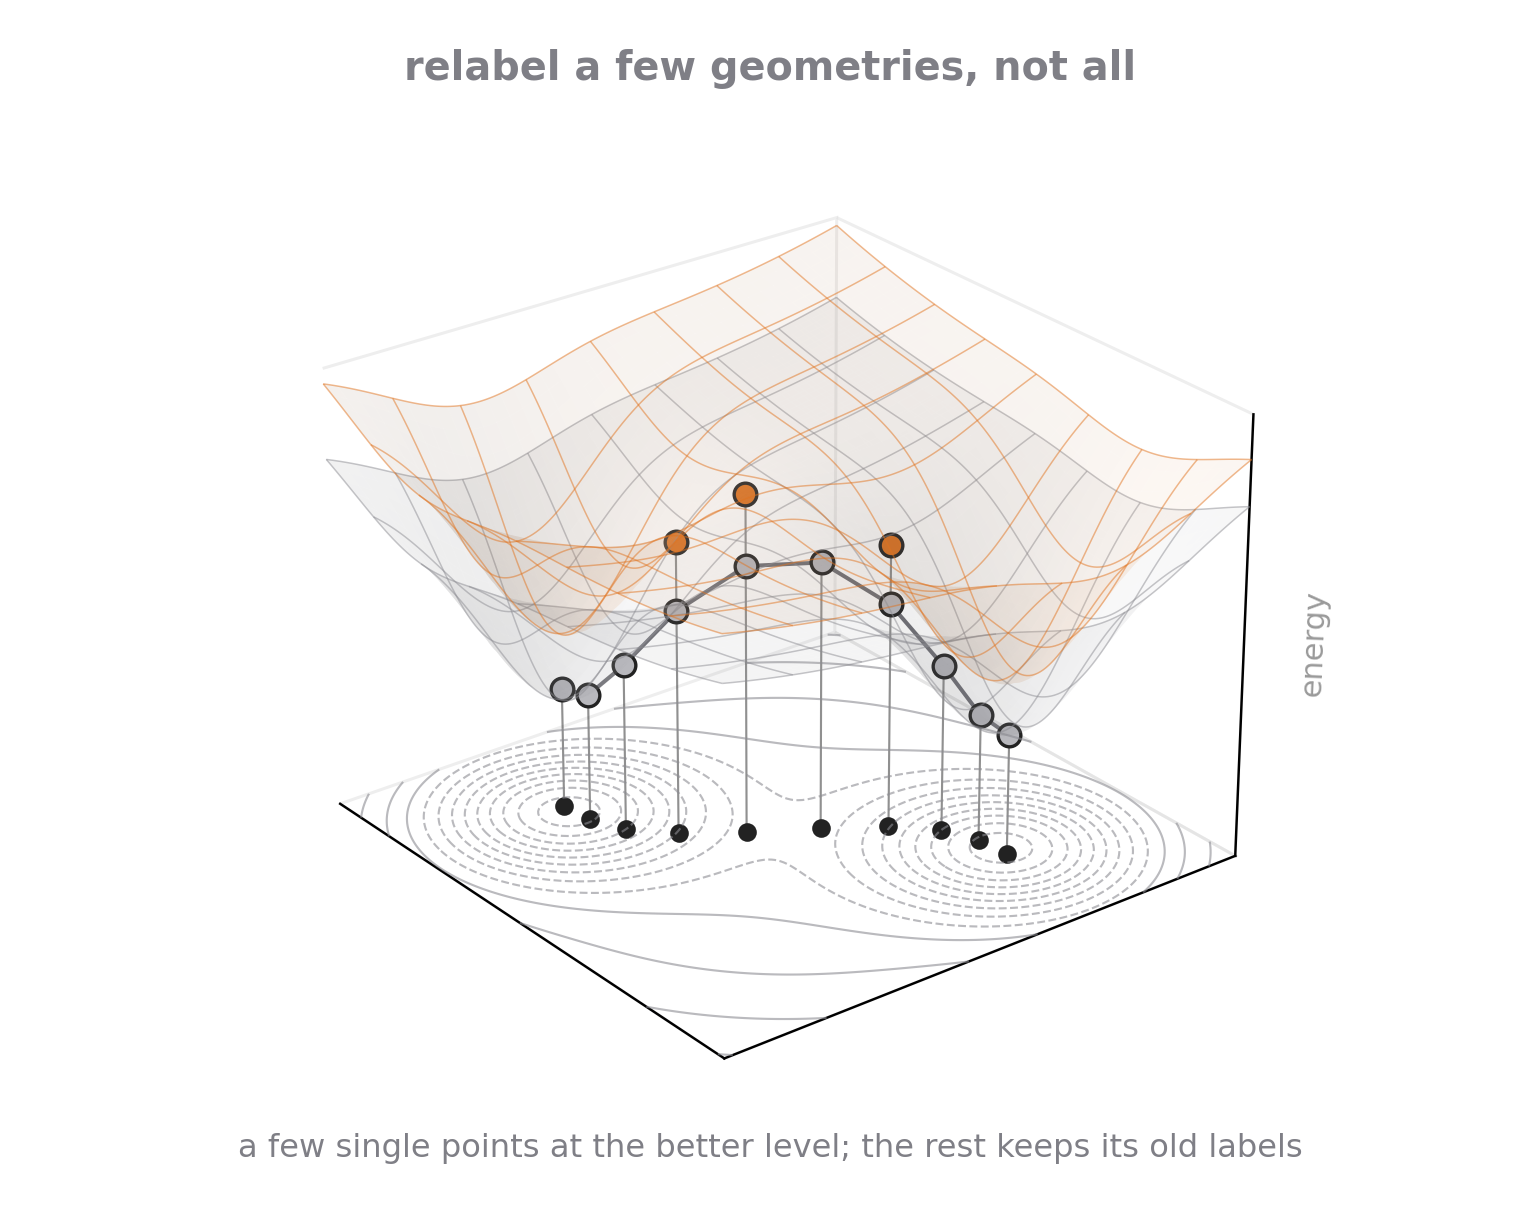
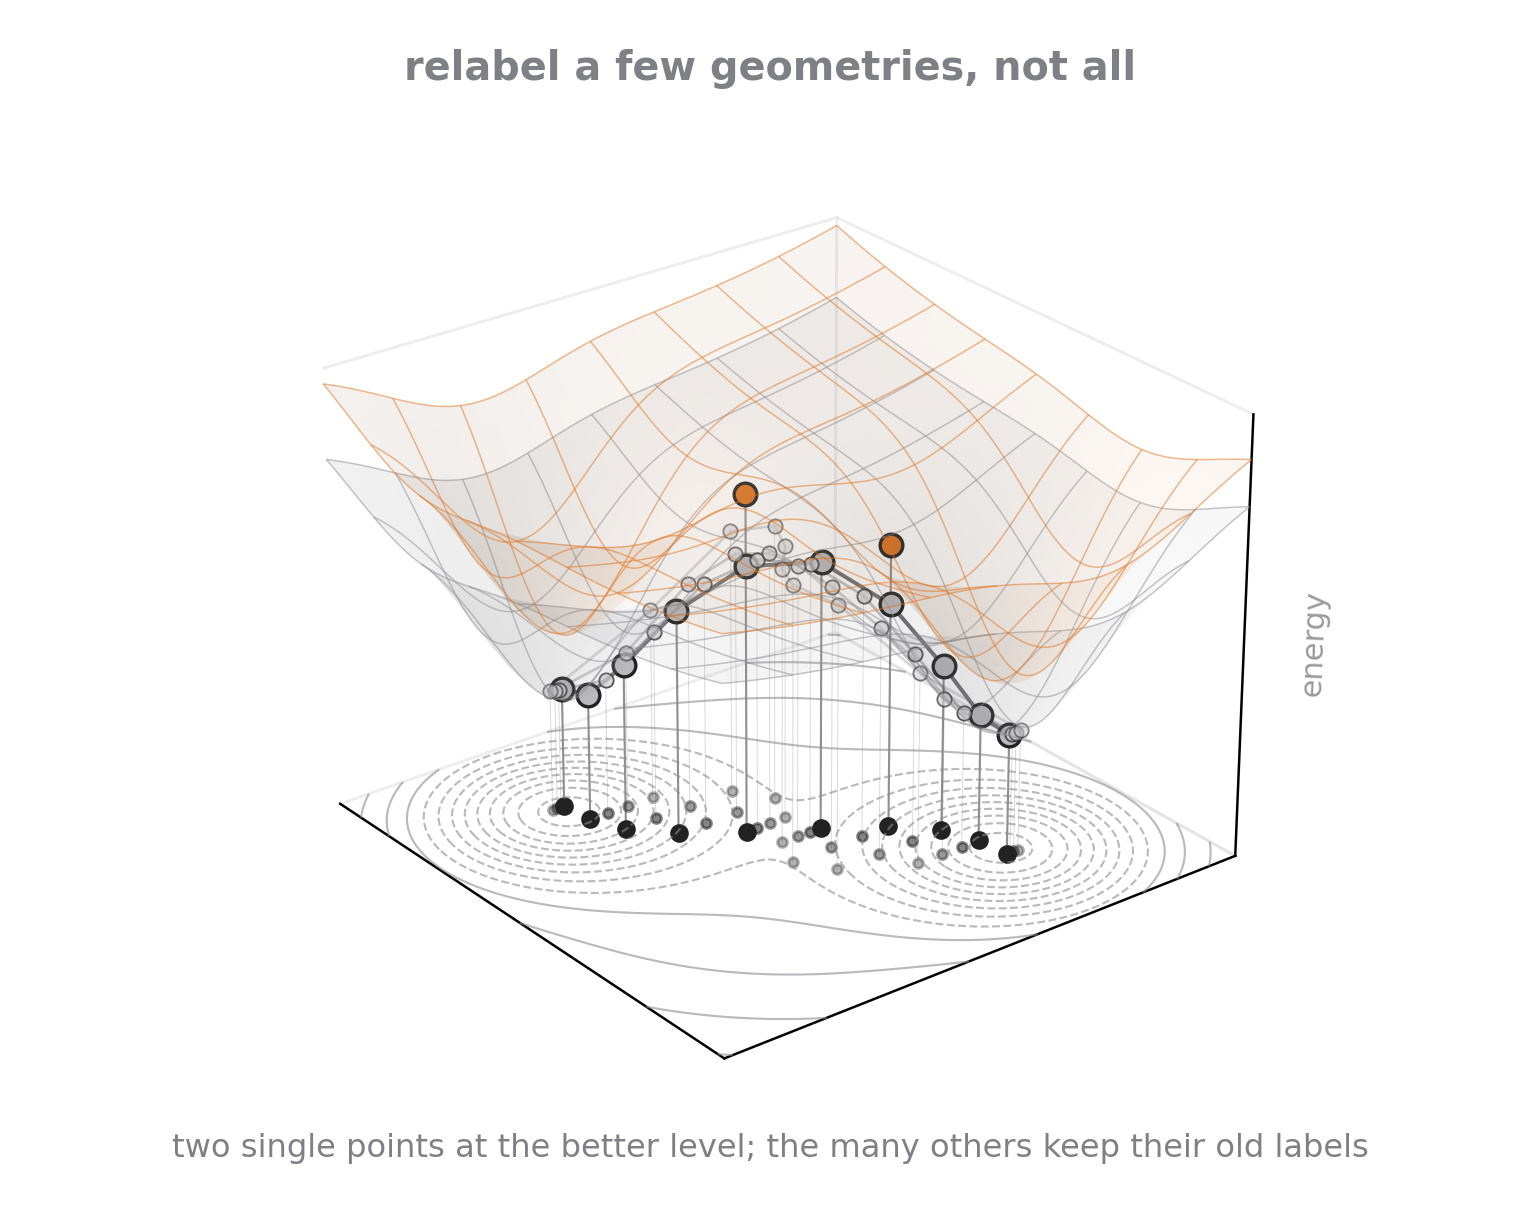
Defence talk: RQ1 picture keeps the many cheap-level points, two relabelled

diff --git a/docs/defence/draw_dataset_pics.py b/docs/defence/draw_dataset_pics.py
@@ -434,7 +434,18 @@ def panel_rq(ax, mode):
     if mode == "rq1":
         z_new = pes(xx3, yy3, "expensive") + 0.32
         pz_new = pes(px, py, "expensive") + 0.32
-        sel = [3, 4, 6]
+        sel = [4, 6]
+        # the many stored geometries of the earlier NEB bands, cheap labels only
+        t = np.linspace(-1.05, 1.05, 10)
+        y_start = py[-1] / px[-1] * t - 0.55 * np.sin(np.pi * t)
+        for w, alpha in [(0.0, 0.35), (0.4, 0.45), (0.72, 0.55)]:
+            bx, by = t, (1 - w) * y_start + w * py
+            bz = pes(bx, by, "cheap")
+            ax.plot(bx, by, bz, color="#8c8c92", lw=0.9, alpha=alpha)
+            ax.scatter(bx, by, [floor] * len(bx), s=10, color=INK, alpha=alpha, depthshade=False)
+            ax.scatter(bx, by, bz, s=22, color="#d0d0d4", edgecolor=INK, lw=0.6, alpha=alpha + 0.2, depthshade=False)
+            for x, y, z in zip(bx, by, bz):
+                ax.plot([x, x], [y, y], [floor, z], color=INK, lw=0.3, alpha=0.18)
     else:
         z_new = pes_bs(xx3, yy3)
         pz_new = pes_bs(px, py)
@@ -466,7 +477,7 @@ def panel_rq(ax, mode):
 MID = "#7f7f86"
 for mode, name, head, sub in [
         ("rq1", "pic_rq1_3d.png", "relabel a few geometries, not all",
-         "a few single points at the better level; the rest keeps its old labels"),
+         "two single points at the better level; the many others keep their old labels"),
         ("rq2", "pic_rq2_3d.png", "relabel on a surface with a different shape",
          "labels from the unrestricted surface; its transition state (star) lies beside the path")]:
     fig = plt.figure(figsize=(7, 5.6))
